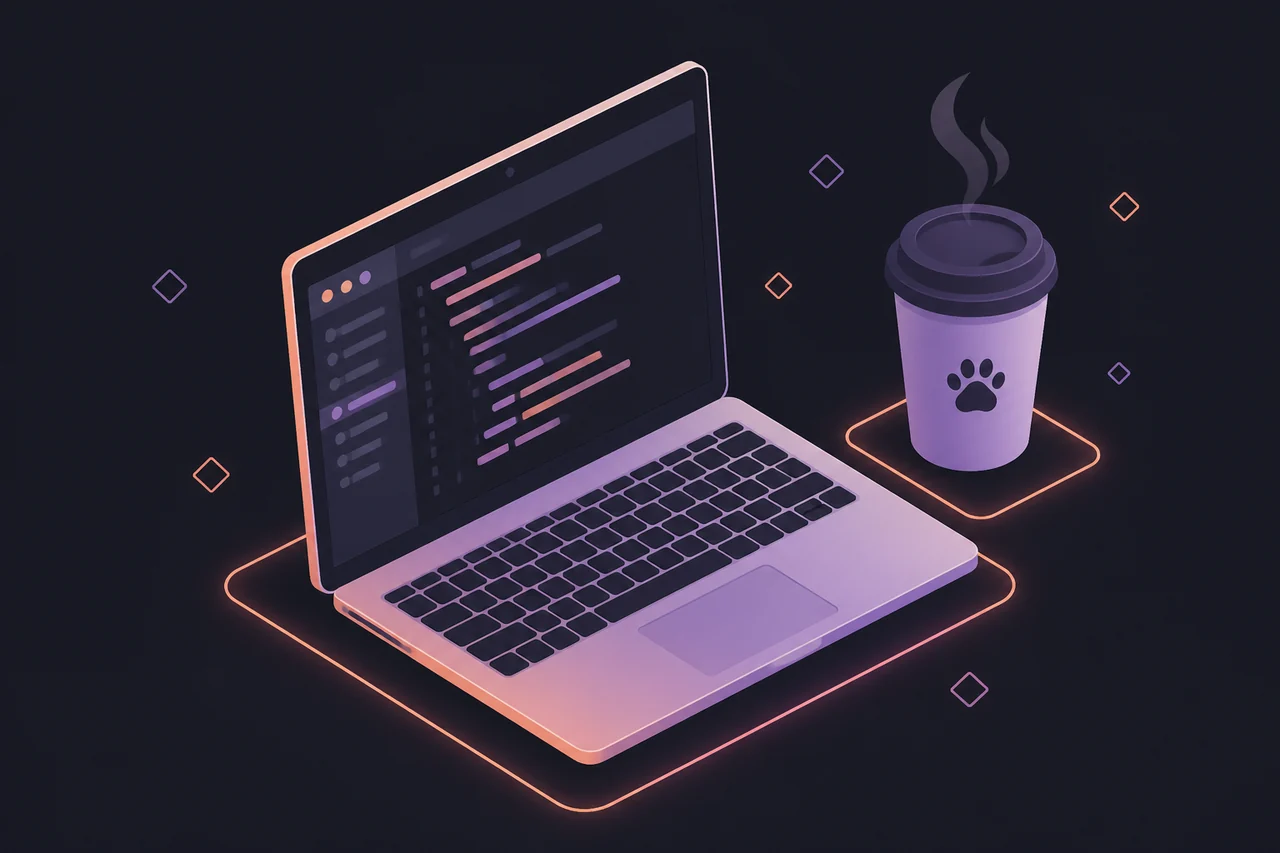
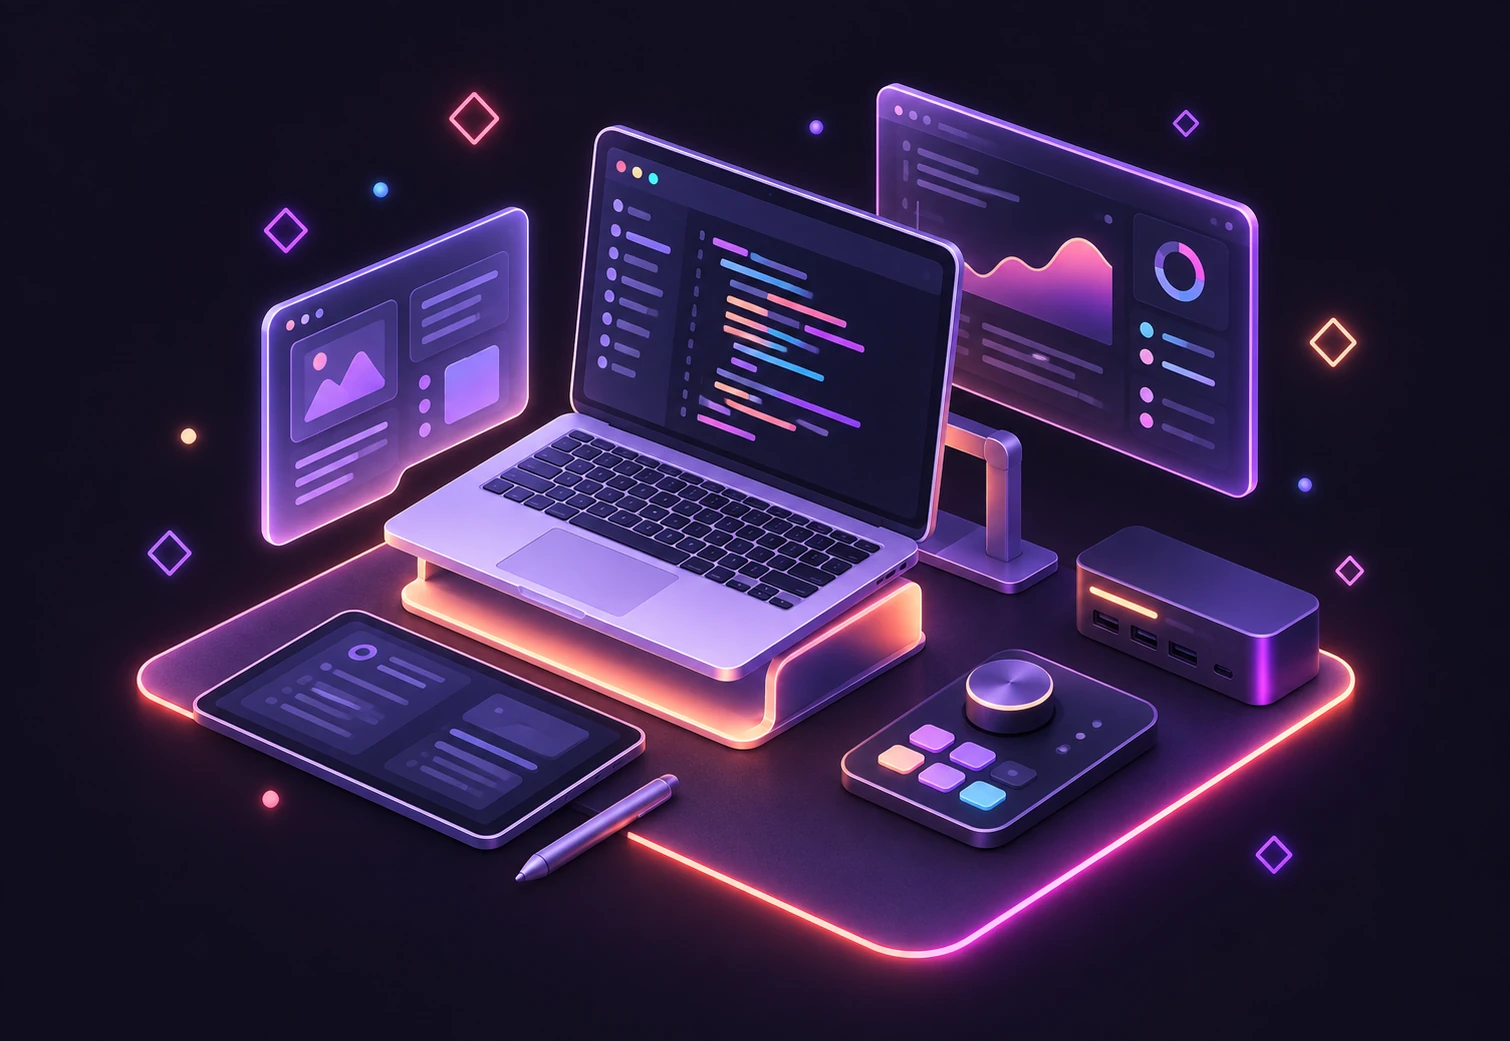
web: static SoT hero + new carousel panel 2 + transparent panel 3
Abandon animated hero WebM/CSS stack per CEO. Ship static transparent
SoT plate, fully new desk art, and alpha ops plate.

diff --git a/web/src/pages.ts b/web/src/pages.ts
@@ -120,20 +120,13 @@ export function renderHome(): string {
       <div class="hero-visual carousel" data-carousel data-carousel-lock>
         <div class="slides">
           <figure class="slide is-on rocket-slide" data-slide="0">
-            <div class="rocket-stage" data-rocket-stage>
-              <img class="rocket-plate" src="/art/rocket-layers/plate.webp" alt="Pastel MaxQ workstation launch plate" width="1503" height="1047" />
-              <img class="rocket-flame" src="/art/rocket-layers/flame-trail.webp" alt="" width="1437" height="1095" aria-hidden="true" />
-              <div class="rocket-pad-fx" aria-hidden="true">
-                <img class="pad-puff pad-puff-a" src="/art/rocket-layers/smoke-puff-01.webp" alt="" width="1254" height="1254" />
-                <img class="pad-puff pad-puff-b" src="/art/rocket-layers/smoke-puff-02.webp" alt="" width="1254" height="1254" />
-                <img class="pad-puff pad-puff-c" src="/art/rocket-layers/smoke-puff-03.webp" alt="" width="1254" height="1254" />
-                <img class="pad-puff pad-puff-d" src="/art/rocket-layers/smoke-puff-04.webp" alt="" width="1254" height="1254" />
-              </div>
-              <div class="rocket-fly">
-                <img class="rocket-sprite rocket-glow" src="/art/rocket-layers/rocket-trim.webp" alt="" width="881" height="1476" aria-hidden="true" />
-                <img class="rocket-sprite" src="/art/rocket-layers/rocket-trim.webp" alt="" width="881" height="1476" aria-hidden="true" />
-              </div>
-            </div>
+            <img
+              class="hero-static-plate"
+              src="/art/hero-static.webp"
+              alt="Pastel MaxQ workstation launch plate"
+              width="1448"
+              height="1086"
+            />
             <figcaption>01 · apply. install.sh takes the box to MaxQ.</figcaption>
           </figure>
           <figure class="slide" data-slide="1" hidden>

diff --git a/web/src/main.ts b/web/src/main.ts
@@ -115,54 +115,6 @@ function bindCarousel(root: HTMLElement) {
   show(0);
 }
 
-function mountRenderedHero(root: HTMLElement) {
-  const stage = root.querySelector<HTMLElement>("[data-rocket-stage]");
-  if (!stage) return;
-
-  const reduced = window.matchMedia("(prefers-reduced-motion: reduce)").matches;
-  stage.classList.add("rocket-stage--rendered");
-  stage.innerHTML = `
-    <img
-      class="rocket-render-poster"
-      src="/art/hero-launch-poster.webp"
-      alt="Pastel MaxQ workstation launch plate"
-      width="660"
-      height="460"
-    />
-    <video
-      class="rocket-render-video"
-      muted
-      loop
-      playsinline
-      preload="auto"
-      aria-label="Pastel MaxQ rocket launching from the workstation"
-    >
-      <source src="/art/hero-launch.webm" type="video/webm" />
-    </video>`;
-
-  const video = stage.querySelector<HTMLVideoElement>(".rocket-render-video");
-  if (!video || reduced) {
-    stage.classList.add("is-static");
-    video?.remove();
-    return;
-  }
-
-  const ready = () => {
-    stage.classList.add("is-video-ready");
-    void video.play().catch(() => {
-      stage.classList.remove("is-video-ready");
-      stage.classList.add("is-static");
-    });
-  };
-
-  video.addEventListener("canplay", ready, { once: true });
-  video.addEventListener("error", () => {
-    stage.classList.remove("is-video-ready");
-    stage.classList.add("is-static");
-  }, { once: true });
-
-  if (video.readyState >= HTMLMediaElement.HAVE_FUTURE_DATA) ready();
-}
 
 function draw() {
   const app = document.getElementById("app");
@@ -172,7 +124,6 @@ function draw() {
   bindCopy(app);
   bindTabs(app);
   bindCarousel(app);
-  mountRenderedHero(app);
 }
 
 function dismissLoader() {

diff --git a/web/index.html b/web/index.html
@@ -15,8 +15,6 @@
     <link rel="preconnect" href="https://fonts.gstatic.com" crossorigin />
     <link href="https://fonts.googleapis.com/css2?family=IBM+Plex+Mono:wght@400;500&family=IBM+Plex+Sans:wght@400;500;600;700;900&display=swap" rel="stylesheet" />
     <link rel="stylesheet" href="/src/styles.css" />
-    <link rel="stylesheet" href="/rocket-path.css" />
-    <link rel="stylesheet" href="/hero-video.css" />
   </head>
   <body>
     <canvas id="stars" aria-hidden="true"></canvas>

diff --git a/web/src/styles.css b/web/src/styles.css
@@ -625,3 +625,10 @@ ul.inv li { padding: .42rem 0; border-bottom: 1px solid var(--rule); color: var(
   .nav { display: none; }
   .hero { padding-top: 1.4rem; }
 }
+
+/* Static SoT hero plate — animation abandoned */
+.rocket-slide .hero-static-plate {
+  display: block;
+  width: 100%;
+  height: auto;
+}
